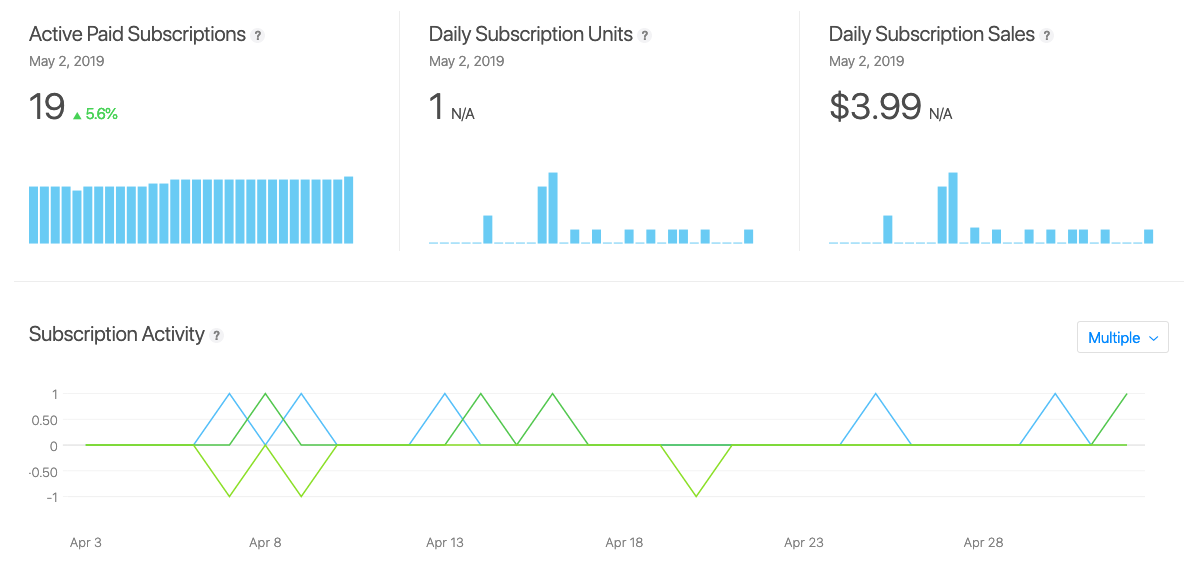
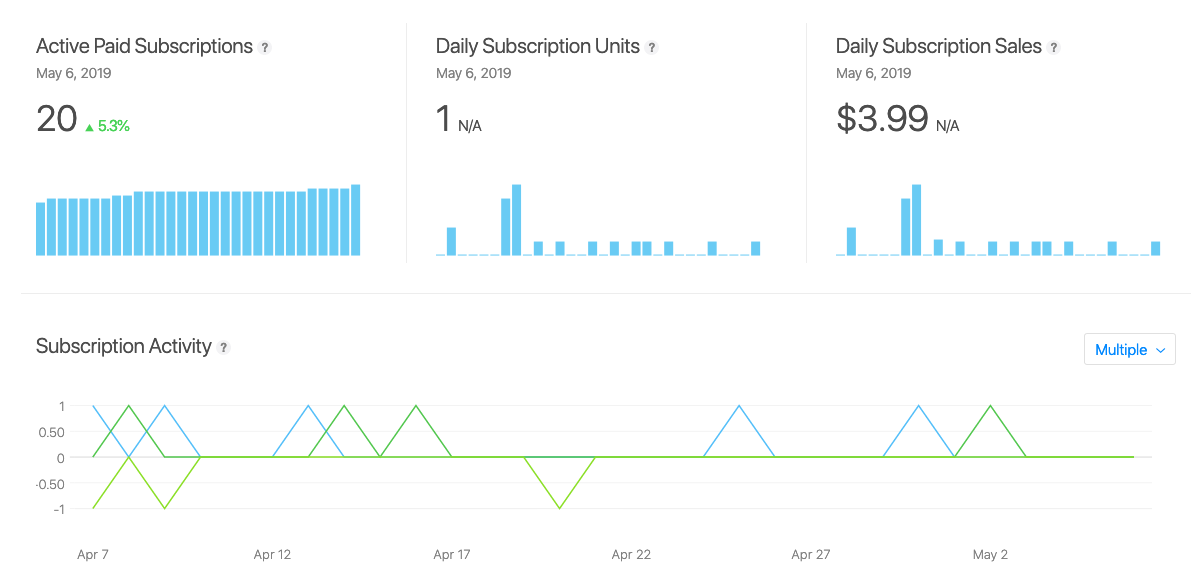
newest blog source deploy Tue May  7 09:29:05 PDT 2019

diff --git a/docs/projects/index.html b/docs/projects/index.html
@@ -271,11 +271,11 @@ Tech
 * Backend in Node/Express/Postgresql backend running on Heroku (currently removed)
 
 Stats
-* MRR: $53
-* Paying customers: 19
-* Trial customers: 2
+* MRR: $55
+* Paying customers: 20
+* Trial customers: 0
 * Price point: $3.99/month
-* 220 registered users
+* 262 registered users
 * Organic app store search
 </code></pre>
 

diff --git a/drafts/startup-updates-7.md b/drafts/startup-updates-7.md
@@ -44,9 +44,9 @@ categories:
 	* Add leases again later once we're the AAA of EVs. 
 	* Upside: Address _whole_ EV market, not just subset actively looking for EV lease.
 	* Upside: Less friction due to 1 month instead of 36 month commitment. $35 commitment instead of $8,000 comittment for lease.
-	* Advertise new value prop through reddit. If we can get 10 people to pay $35 in the next week we'll pivot.
-	* Results: 18 clicks for $8 -> 5 installs -> 5 people touched through to pricing -> 0 subscribers
-
+	* Advertise new value prop through paid marketing. If we can get 10 people to pay $35 in the next week we'll pivot.
+		* Reddit Results: 18 clicks for $8 -> 5 installs ($1.6 per install) -> 5 people touched through to pricing -> 0 subscribers
+		* iOS Results: 
 
 Experiment backlog:
 * Test Concierge service (you say which car, we'll find at a price).

diff --git a/content/projects.md b/content/projects.md
@@ -186,11 +186,11 @@ The app was actually downloaded by massage therapists, acupuncturists and psycho
 	* Backend in Node/Express/Postgresql backend running on Heroku (currently removed)
 
 	Stats
-	* MRR: $53
-	* Paying customers: 19
-	* Trial customers: 2
+	* MRR: $55
+	* Paying customers: 20
+	* Trial customers: 0
 	* Price point: $3.99/month
-	* 220 registered users
+	* 262 registered users
 	* Organic app store search
 
 * [App Store Link](https://itunes.apple.com/app/id1384252497)
